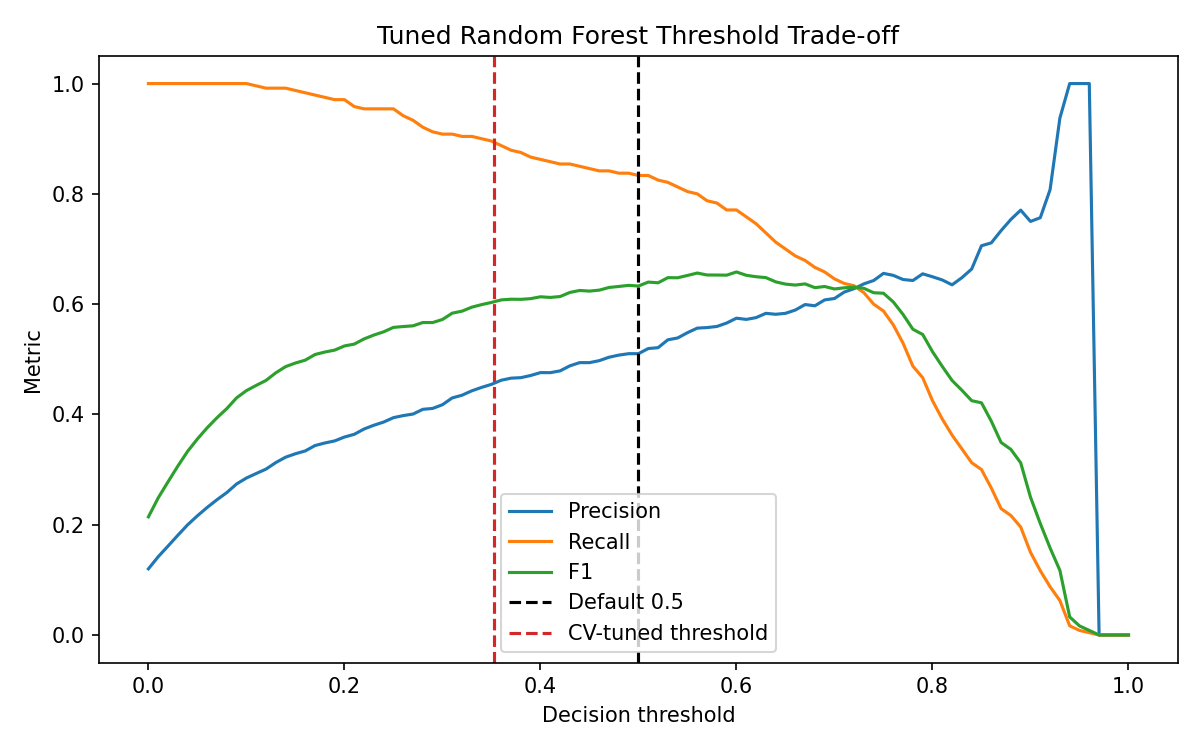
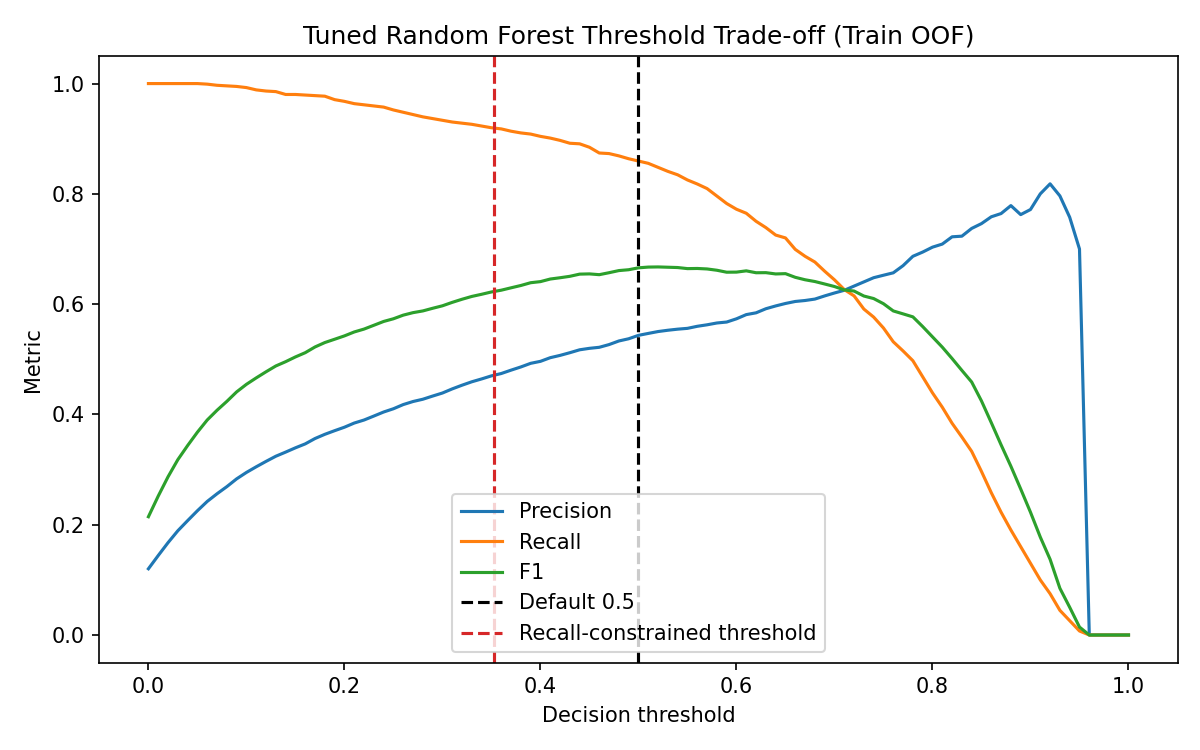
fix(reporting): derive threshold tradeoff from OOF scores

diff --git a/credit_risk/reporting.py b/credit_risk/reporting.py
@@ -81,11 +81,11 @@ def _save_threshold_tradeoff(
         optimized_threshold,
         color="tab:red",
         linestyle="--",
-        label="CV-tuned threshold",
+        label="Recall-constrained threshold",
     )
     axis.set_xlabel("Decision threshold")
     axis.set_ylabel("Metric")
-    axis.set_title("Tuned Random Forest Threshold Trade-off")
+    axis.set_title("Tuned Random Forest Threshold Trade-off (Train OOF)")
     axis.legend()
     figure.tight_layout()
     figure.savefig(output_path, dpi=150)
@@ -193,9 +193,10 @@ def save_classification_artifacts(
         destination / "feature_importance.png",
     )
     rf_thresholds = result["threshold_analysis"]["Random Forest (Tuned)"]
+    tradeoff = result["threshold_tradeoff"]
     _save_threshold_tradeoff(
-        y_test,
-        table["overdue_probability"].to_numpy(),
+        tradeoff["target"],
+        tradeoff["scores"],
         rf_thresholds["default_threshold"],
         rf_thresholds["optimized_threshold"],
         destination / "threshold_tradeoff.png",
@@ -235,7 +236,7 @@ def metrics_report(result: dict) -> dict:
         "classification": {
             key: value
             for key, value in result["classification"].items()
-            if key != "predictions"
+            if key not in {"predictions", "threshold_tradeoff"}
         },
         "regression": {
             key: value

diff --git a/credit_risk/classification.py b/credit_risk/classification.py
@@ -19,6 +19,7 @@ from sklearn.model_selection import (
     GridSearchCV,
     StratifiedKFold,
     TunedThresholdClassifierCV,
+    cross_val_predict,
     cross_validate,
 )
 from sklearn.pipeline import Pipeline
@@ -215,6 +216,14 @@ def train_classification(
     tuned_forest_threshold = _tune_threshold(
         tuned_forest, x_train, y_train, cv, operating_scorer
     )
+    tuned_forest_oof_scores = cross_val_predict(
+        tuned_forest,
+        x_train,
+        y_train,
+        cv=cv,
+        method="predict_proba",
+        n_jobs=-1,
+    )[:, 1]
 
     rule_predictions = x_test.apply(rule_based_predict, axis=1).to_numpy()
     logistic_scores = logistic.predict_proba(x_test)[:, 1]
@@ -341,5 +350,9 @@ def train_classification(
         "best_cv_f1": float(tuned_forest_cv_f1["test_score"].mean()),
         "feature_importance": _feature_importance(tuned_forest),
         "threshold_analysis": threshold_analysis,
+        "threshold_tradeoff": {
+            "target": y_train.to_numpy(),
+            "scores": tuned_forest_oof_scores,
+        },
         "predictions": prediction_table,
     }

diff --git a/tests/test_train.py b/tests/test_train.py
@@ -194,6 +194,9 @@ def test_classification_compares_models_and_saves_artifacts(finance_df, tmp_path
         "tuned_rf_prediction_default",
         "tuned_rf_prediction_tuned",
     } <= set(result["predictions"])
+    tradeoff = result["threshold_tradeoff"]
+    assert tradeoff["target"].tolist() == y_train.tolist()
+    assert len(tradeoff["scores"]) == len(y_train)
     assert (output_dir / "classification_predictions.csv").is_file()
     for name in [
         "confusion_matrix.png",
@@ -248,6 +251,7 @@ def test_run_analysis_saves_serializable_metrics_and_predictions(
     assert set(result["data_distribution"]) == {"all", "train", "test"}
     report = json.loads((output_dir / "metrics.json").read_text(encoding="utf-8"))
     assert "predictions" not in report["classification"]
+    assert "threshold_tradeoff" not in report["classification"]
     assert "predictions" not in report["regression"]
     assert "threshold_analysis" in report["classification"]
     assert (output_dir / "classification_predictions.csv").is_file()
